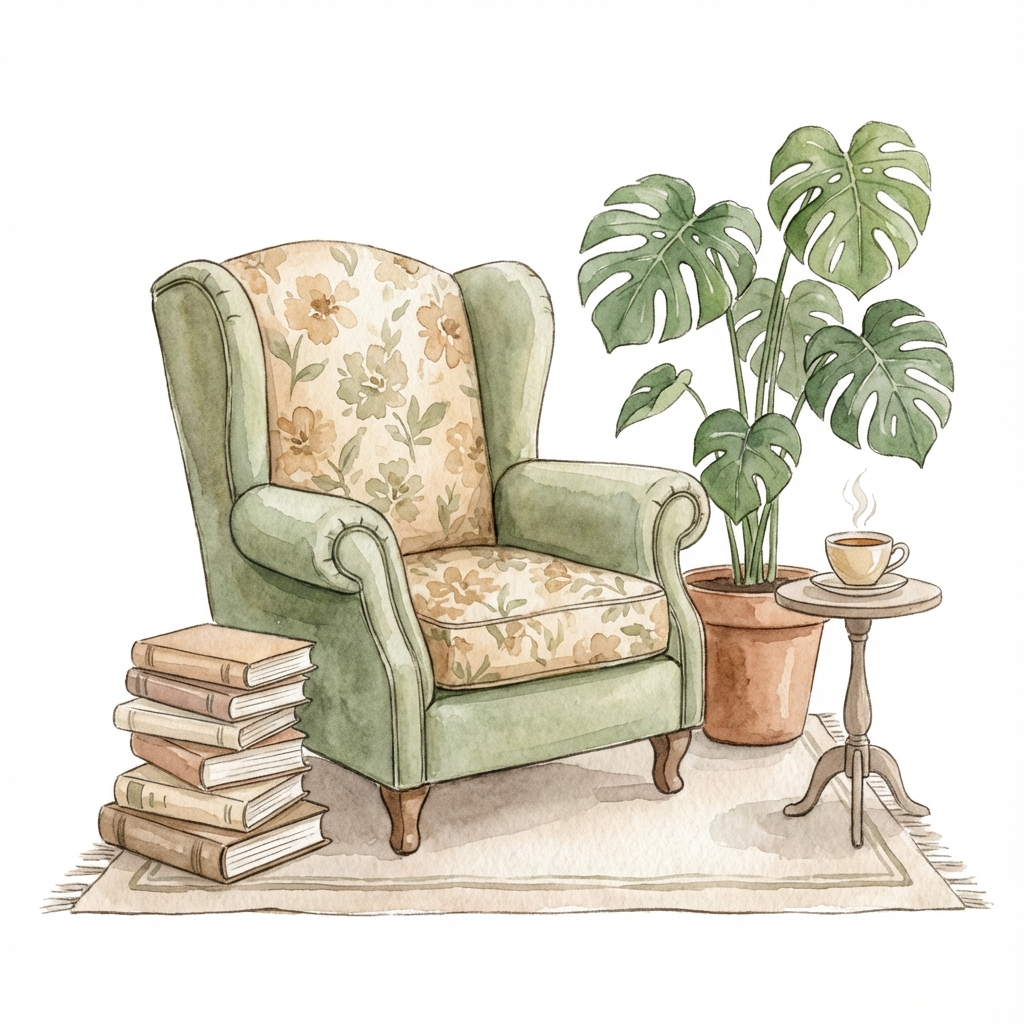
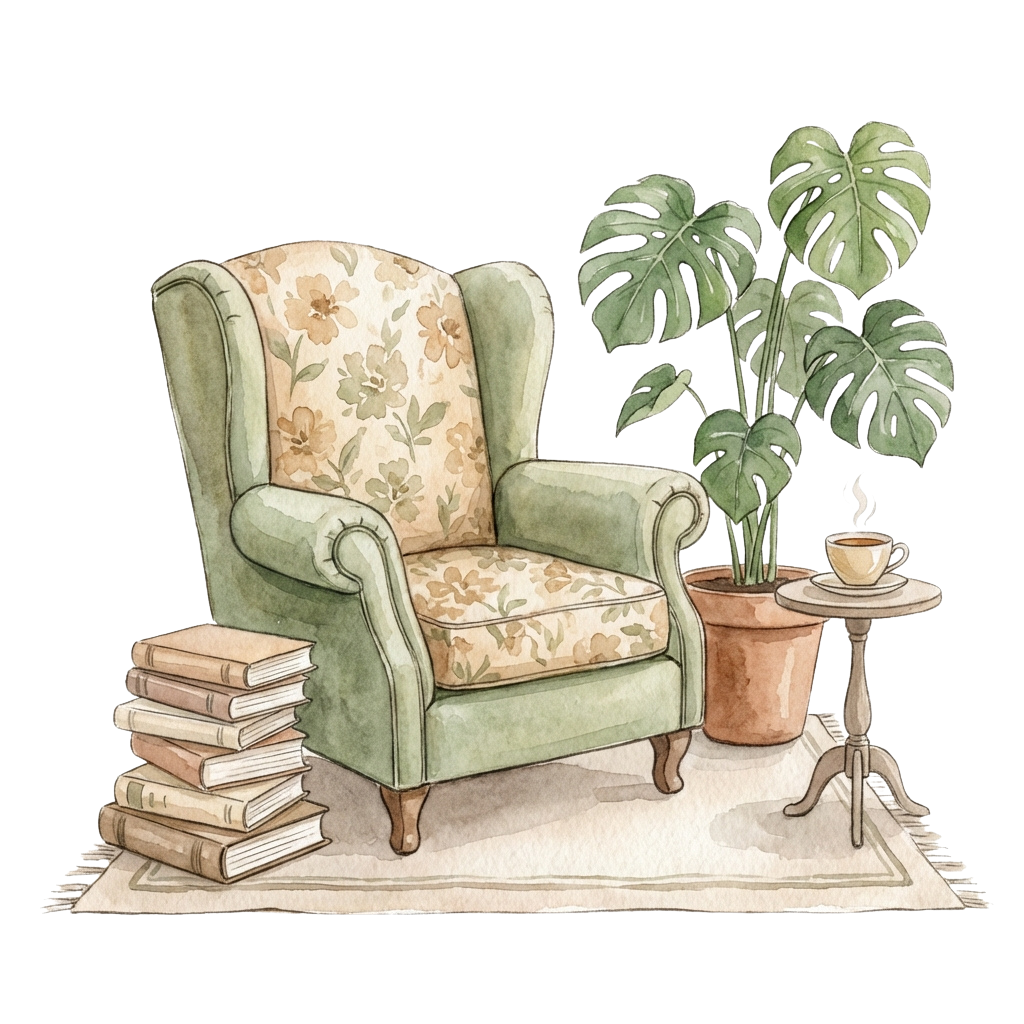
feat: set up initial landing page with global styles, theming, and navigation.

diff --git a/src/app/page.tsx b/src/app/page.tsx
@@ -97,28 +97,11 @@ export default function Home() {
 
             {/* Hero Section */}
             <section className="hero-pattern pt-32 pb-20 px-4 sm:px-6 lg:px-8 relative overflow-hidden">
-                {/* Decorative elements - Background */}
-                <div className="absolute top-20 left-10 opacity-60 animate-pulse-slow">
-                    <NextImage src="/assets/decorations/decoration_squiggle.png" alt="" width={100} height={100} className="w-24 h-auto text-primary/20" />
-                </div>
-                <div className="absolute top-40 right-20 opacity-40">
-                    <NextImage src="/assets/decorations/decoration_dots_cluster.png" alt="" width={60} height={60} className="w-16 h-auto" />
-                </div>
-                <div className="absolute bottom-10 left-1/4 opacity-30">
-                    <NextImage src="/assets/decorations/decoration_curl.png" alt="" width={120} height={40} className="w-32 h-auto" />
-                </div>
-
                 <div className="absolute top-1/2 left-1/2 -translate-x-1/2 -translate-y-1/2 w-[800px] h-[800px] rounded-full bg-primary/5 blur-3xl -z-10" />
-
 
                 <div className="max-w-7xl mx-auto">
                     <div className="grid lg:grid-cols-2 gap-12 items-center">
-                        <div className="space-y-8 animate-fade-in relative">
-                            {/* Tiny sparkle near text */}
-                            <div className="absolute -top-6 -left-6 opacity-50 hidden sm:block">
-                                <NextImage src="/assets/decorations/decoration_sparkle.png" alt="" width={40} height={40} />
-                            </div>
-
+                        <div className="space-y-8 animate-fade-in relative z-10">
                             <div className="inline-flex items-center gap-2 bg-primary/10 text-primary px-4 py-2 rounded-full text-sm font-medium">
                                 <Sparkles className="h-4 w-4" />
                                 Your Personal Library, Reimagined
@@ -135,9 +118,6 @@ export default function Home() {
                                 Create your cozy digital library, track your reading journey,
                                 lend books to friends, and discover your next favorite read.
                                 All in one beautiful place.
-                                <span className="absolute -right-8 top-0 opacity-40 hidden sm:block">
-                                    <NextImage src="/assets/decorations/decoration_leaf.png" alt="" width={30} height={30} />
-                                </span>
                             </p>
 
                             <div className="flex flex-wrap gap-4">
@@ -168,38 +148,18 @@ export default function Home() {
                             </div>
                         </div>
 
-                        {/* Hero illustration - Composition */}
-                        <div className="relative h-[400px] lg:h-[500px] hidden lg:block">
-                            {/* Central Illustration Composition */}
-                            <div className="absolute top-1/2 left-1/2 -translate-x-1/2 -translate-y-1/2 animate-float w-full max-w-md">
-                                <div className="relative z-10">
-                                    <NextImage
-                                        src="/assets/illustrations/illustration_stack_of_books.png"
-                                        alt="Stack of books"
-                                        width={400}
-                                        height={400}
-                                        className="w-full h-auto drop-shadow-xl"
-                                        priority
-                                    />
-                                </div>
+                        {/* Hero illustration - Main Image */}
+                        <div className="relative h-[400px] lg:h-[600px] hidden lg:flex items-center justify-center">
+                            <div className="relative z-10 w-full h-full flex items-center justify-center animate-float">
+                                <NextImage
+                                    src="/assets/reading-haven.png"
+                                    alt="Cozy reading haven"
+                                    width={800}
+                                    height={800}
+                                    className="w-full h-auto object-contain drop-shadow-2xl rounded-2xl"
+                                    priority
+                                />
                             </div>
-
-                            {/* Floating decorative elements around the central image */}
-                            <div className="absolute top-20 right-10 animate-float stagger-1 opacity-90">
-                                <NextImage src="/assets/illustrations/illustration_coffee_cup.png" alt="Coffee" width={100} height={100} className="w-24 h-auto drop-shadow-md" />
-                            </div>
-
-                            <div className="absolute bottom-20 left-0 animate-float stagger-2 opacity-90">
-                                <NextImage src="/assets/illustrations/illustration_reading_glasses.png" alt="Glasses" width={120} height={60} className="w-32 h-auto drop-shadow-md -rotate-12" />
-                            </div>
-
-                            <div className="absolute top-10 left-10 animate-pulse-slow opacity-60">
-                                <NextImage src="/assets/decorations/decoration_heart_doodle.png" alt="Heart" width={50} height={50} />
-                            </div>
-                            <div className="absolute bottom-40 right-0 animate-pulse-slow opacity-60">
-                                <NextImage src="/assets/decorations/decoration_star_doodle.png" alt="Star" width={60} height={60} />
-                            </div>
-
                         </div>
                     </div>
                 </div>

diff --git a/src/app/globals.css b/src/app/globals.css
@@ -17,35 +17,40 @@
 
 @layer base {
   :root {
-    /* Royal Light Theme (optional, but focusing on Royal Dark) */
-    --background: 0 0% 100%;
-    --foreground: 240 10% 3.9%;
+    /* Royal Light Theme */
+    --background: 40 33% 98%;
+    /* #FAF9F6 - Off White/Cream */
+    --foreground: 224 71% 4%;
+    /* #020617 - Deepest Navy */
 
     --card: 0 0% 100%;
-    --card-foreground: 240 10% 3.9%;
+    /* White */
+    --card-foreground: 224 71% 4%;
 
     --popover: 0 0% 100%;
-    --popover-foreground: 240 10% 3.9%;
+    --popover-foreground: 224 71% 4%;
 
-    --primary: 45 60% 50%;
-    /* Royal Gold */
-    --primary-foreground: 0 0% 98%;
+    --primary: 45 93% 47%;
+    /* #EAB308 - Royal Gold */
+    --primary-foreground: 224 71% 4%;
 
-    --secondary: 240 4.8% 95.9%;
-    --secondary-foreground: 240 5.9% 10%;
+    --secondary: 220 14% 96%;
+    /* #F1F5F9 - Light Gray/Blueish */
+    --secondary-foreground: 224 71% 4%;
 
-    --muted: 240 4.8% 95.9%;
-    --muted-foreground: 240 3.8% 46.1%;
+    --muted: 220 14% 96%;
+    --muted-foreground: 220 8% 46%;
 
-    --accent: 240 4.8% 95.9%;
-    --accent-foreground: 240 5.9% 10%;
+    --accent: 45 93% 90%;
+    /* Light Gold */
+    --accent-foreground: 224 71% 4%;
 
     --destructive: 0 84.2% 60.2%;
     --destructive-foreground: 0 0% 98%;
 
-    --border: 240 5.9% 90%;
-    --input: 240 5.9% 90%;
-    --ring: 45 60% 50%;
+    --border: 220 13% 91%;
+    --input: 220 13% 91%;
+    --ring: 45 93% 47%;
 
     --radius: 0.5rem;
   }
@@ -54,27 +59,28 @@
     /* Royal Dark Theme */
     --background: 224 71% 4%;
     /* #020617 - Deepest Royal Navy/Black */
-    --foreground: 0 0% 98%;
+    --foreground: 45 20% 96%;
+    /* Off-white gold tint */
 
     --card: 222 47% 11%;
     /* #0F172A - Rich Navy */
-    --card-foreground: 0 0% 98%;
+    --card-foreground: 45 20% 96%;
 
     --popover: 222 47% 11%;
-    --popover-foreground: 0 0% 98%;
+    --popover-foreground: 45 20% 96%;
 
     --primary: 45 93% 47%;
     /* #EAB308 - Royal Gold/Amber */
     --primary-foreground: 222 47% 11%;
 
     --secondary: 217 33% 17%;
-    --secondary-foreground: 0 0% 98%;
+    --secondary-foreground: 45 20% 96%;
 
     --muted: 217 33% 17%;
     --muted-foreground: 215 20% 65%;
 
     --accent: 217 33% 17%;
-    --accent-foreground: 0 0% 98%;
+    --accent-foreground: 45 20% 96%;
 
     --destructive: 0 62.8% 30.6%;
     --destructive-foreground: 0 0% 98%;
@@ -114,42 +120,44 @@
     opacity: 0.03;
   }
 
-  /* Cozy card style */
+  /* Cozy card style - Adapted for Royal Theme */
   .cozy-card {
     @apply bg-card rounded-xl shadow-lg border border-border/50;
-    box-shadow: 0 4px 20px -4px rgba(139, 90, 43, 0.1),
-      0 8px 40px -8px rgba(139, 90, 43, 0.05);
+    box-shadow: 0 4px 20px -4px rgba(2, 6, 23, 0.1),
+      0 8px 40px -8px rgba(2, 6, 23, 0.05);
   }
 
-  /* Warm gradient backgrounds */
+  /* Gradient backgrounds using CSS variables */
   .warm-gradient {
+    /* Using primary/accent for the gradient */
     background: linear-gradient(135deg,
-        hsl(var(--warm-cream)) 0%,
-        hsl(var(--warm-beige)) 50%,
-        hsl(var(--warm-tan)) 100%);
+        hsl(var(--background)) 0%,
+        hsl(var(--accent)) 100%);
   }
 
   .terracotta-gradient {
+    /* Using Primary (Gold) gradient */
     background: linear-gradient(135deg,
-        hsl(var(--terracotta)) 0%,
-        hsl(var(--terracotta-dark)) 100%);
+        hsl(var(--primary)) 0%,
+        hsl(45, 93%, 35%) 100%);
+    /* Gold to Darker Gold */
   }
 
   /* Hero pattern */
   .hero-pattern {
     background-color: hsl(var(--background));
     background-image:
-      radial-gradient(at 20% 30%, hsla(28, 60%, 55%, 0.1) 0px, transparent 50%),
-      radial-gradient(at 80% 70%, hsla(16, 50%, 45%, 0.08) 0px, transparent 50%),
-      radial-gradient(at 50% 50%, hsla(35, 30%, 90%, 0.5) 0px, transparent 70%);
+      radial-gradient(at 20% 30%, hsla(45, 93%, 47%, 0.1) 0px, transparent 50%),
+      radial-gradient(at 80% 70%, hsla(222, 47%, 11%, 0.08) 0px, transparent 50%),
+      radial-gradient(at 50% 50%, hsla(45, 93%, 90%, 0.5) 0px, transparent 70%);
   }
 
   .dark .hero-pattern {
     background-color: hsl(var(--background));
     background-image:
-      radial-gradient(at 20% 30%, hsla(28, 60%, 55%, 0.15) 0px, transparent 50%),
-      radial-gradient(at 80% 70%, hsla(16, 50%, 45%, 0.12) 0px, transparent 50%),
-      radial-gradient(at 50% 50%, hsla(24, 15%, 20%, 0.5) 0px, transparent 70%);
+      radial-gradient(at 20% 30%, hsla(45, 93%, 47%, 0.15) 0px, transparent 50%),
+      radial-gradient(at 80% 70%, hsla(222, 47%, 20%, 0.12) 0px, transparent 50%),
+      radial-gradient(at 50% 50%, hsla(45, 15%, 20%, 0.5) 0px, transparent 70%);
   }
 
   /* Animated underline for links */
@@ -237,32 +245,32 @@
 
   .book-card-hover:hover {
     @apply -translate-y-2 shadow-xl;
-    box-shadow: 0 20px 40px -12px rgba(139, 90, 43, 0.25);
+    box-shadow: 0 20px 40px -12px rgba(2, 6, 23, 0.25);
   }
 
   /* Decorative elements */
   .decorative-dots {
-    background-image: radial-gradient(hsl(var(--terracotta) / 0.2) 1px, transparent 1px);
+    background-image: radial-gradient(hsl(var(--primary) / 0.2) 1px, transparent 1px);
     background-size: 20px 20px;
   }
 }
 
-/* Custom scrollbar for the warm theme */
+/* Custom scrollbar for the royal theme */
 ::-webkit-scrollbar {
   width: 10px;
 }
 
 ::-webkit-scrollbar-track {
-  background: hsl(var(--warm-beige));
+  background: hsl(var(--muted));
 }
 
 ::-webkit-scrollbar-thumb {
-  background: hsl(var(--terracotta) / 0.4);
+  background: hsl(var(--primary) / 0.6);
   border-radius: 5px;
 }
 
 ::-webkit-scrollbar-thumb:hover {
-  background: hsl(var(--terracotta) / 0.6);
+  background: hsl(var(--primary) / 0.8);
 }
 
 /* Dark mode scrollbar */
